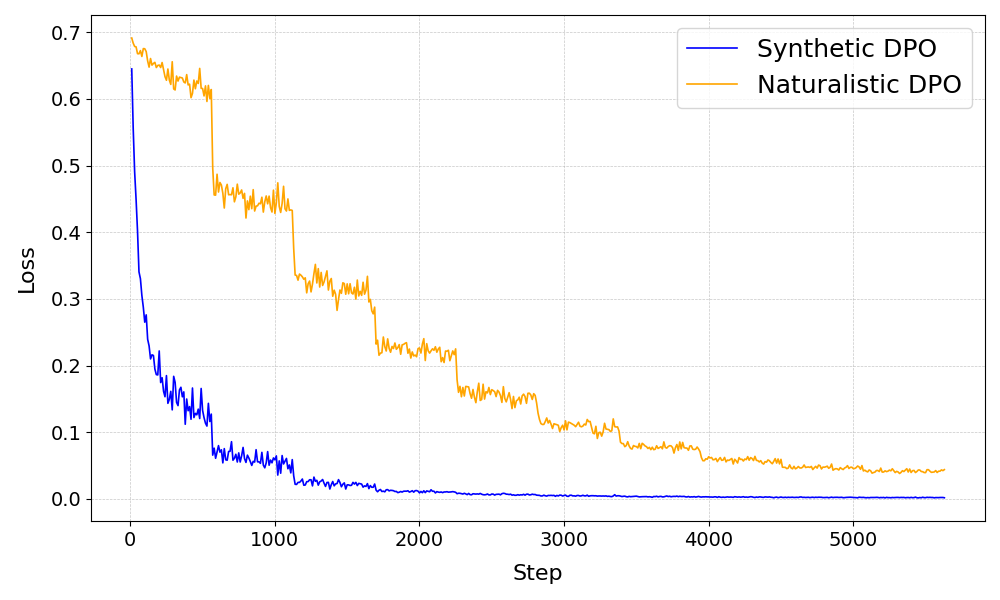
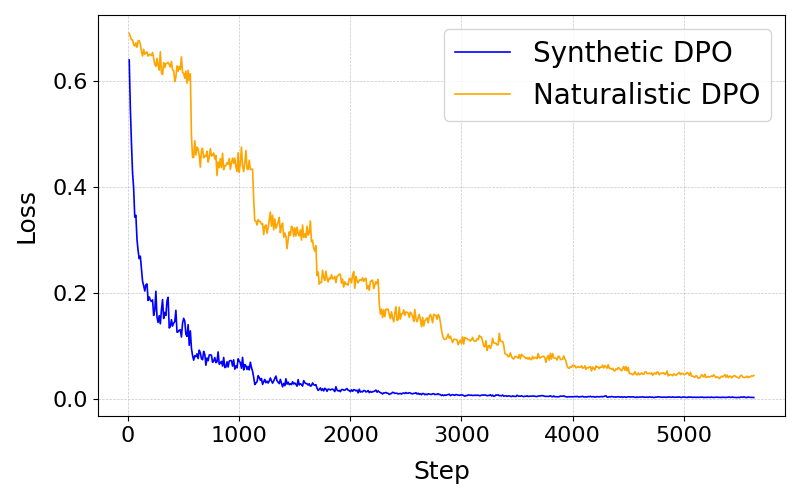
update figures and eval scripts

diff --git a/plot_reward_loss_dpo.py b/plot_reward_loss_dpo.py
@@ -2,41 +2,42 @@ import pandas as pd
 import matplotlib.pyplot as plt
 
 # Load both training logs
-df_synth = pd.read_csv("./dpo_outputs_complete_synthetic/logs/training_metrics.csv")
-df_real = pd.read_csv("./dpo_outputs_complete/logs/training_metrics.csv")
+df_synth = pd.read_csv("./finetuned_models/communicative-baby-dpo-synthetic/logs/training_metrics.csv")
+df_real = pd.read_csv("./finetuned_models/communicative-baby-dpo/logs/training_metrics.csv")
 
 # Set font sizes and line width
-label_fontsize = 16
-tick_fontsize = 14
+label_fontsize = 18
+tick_fontsize = 16
 line_width = 1.2
-legend_fontsize = 18
+legend_fontsize = 20
 
 # Plot 1: Loss over Steps
-plt.figure(figsize=(10, 6))
+plt.figure(figsize=(8, 5))
 plt.plot(df_synth["step"], df_synth["loss"], label="Synthetic DPO", color="blue", linewidth=line_width)
 plt.plot(df_real["step"], df_real["loss"], label="Naturalistic DPO", color="orange", linewidth=line_width)
 plt.xlabel("Step", fontsize=label_fontsize, labelpad=10)
 plt.ylabel("Loss", fontsize=label_fontsize, labelpad=10)
 plt.xticks(fontsize=tick_fontsize)
-plt.yticks(fontsize=tick_fontsize)
+plt.yticks([0.0,0.2, 0.4, 0.6], fontsize=tick_fontsize)
 plt.grid(True, axis='both', linestyle='--', linewidth=0.5, alpha=0.7)
-plt.legend(fontsize = legend_fontsize)
+plt.legend(fontsize=legend_fontsize)
 plt.tight_layout()
 plt.savefig("./plots/loss_trend_dpo_comparison.png")
 plt.close()
 
 # Plot 2: Rewards over Steps
-plt.figure(figsize=(10, 6))
-plt.plot(df_synth["step"], df_synth["rewards/chosen"], label="Synthetic - Rewards/Chosen", color="#90ee90", linewidth=line_width)
-plt.plot(df_synth["step"], df_synth["rewards/rejected"], label="Synthetic - Rewards/Rejected", color="orange", linewidth=line_width)
-plt.plot(df_real["step"], df_real["rewards/chosen"], label="Naturalistic - Rewards/Chosen", color="darkgreen", linewidth=line_width)
-plt.plot(df_real["step"], df_real["rewards/rejected"], label="Naturalistic - Rewards/Rejected", color="darkred", linewidth=line_width)
+plt.figure(figsize=(8, 5))
+plt.plot(df_synth["step"], df_synth["rewards/chosen"], label="Synth. - Chosen", color="#90ee90", linewidth=line_width)
+plt.plot(df_synth["step"], df_synth["rewards/rejected"], label="Synth. - Rejected", color="orange", linewidth=line_width)
+plt.plot(df_real["step"], df_real["rewards/chosen"], label="Nat. - Chosen", color="darkgreen", linewidth=line_width)
+plt.plot(df_real["step"], df_real["rewards/rejected"], label="Nat. - Rejected", color="darkred", linewidth=line_width)
 plt.xlabel("Step", fontsize=label_fontsize, labelpad=10)
 plt.ylabel("Reward", fontsize=label_fontsize, labelpad=10)
 plt.xticks(fontsize=tick_fontsize)
 plt.yticks(fontsize=tick_fontsize)
+plt.yticks([-4, -2, 0, 2, 4], fontsize=tick_fontsize)
 plt.grid(True, axis='both', linestyle='--', linewidth=0.5, alpha=0.7)
-plt.legend(fontsize = 15, loc='lower left')
+plt.legend(fontsize = 14, loc='lower left')
 plt.tight_layout()
 plt.savefig("./plots/rewards_trend_dpo_comparison.png")
 plt.close()

diff --git a/evaluation/evaluate_dialogue_minpairs.py b/evaluation/evaluate_dialogue_minpairs.py
@@ -7,10 +7,11 @@ from tqdm import tqdm
 # CONFIG: Choose your model and dataset
 DIALOGUE_WORDS= "fpadovani/dialogue_eval_words" 
 DIALOGUE_TOKENS = "fpadovani/dialogue_eval_tokens" 
+INTERACTIVE = 'BabyLM-community/babylm-interaction-baseline-simpo'
 GPT_BERT = 'BabyLM-community/babylm-baseline-10m-gpt-bert-causal-focus'
 BASELINE_PATH = "bbunzeck/another-llama"
-FINETUNED_PATH_1 = "/Users/frapadovani/Desktop/communicative_baby_dpo/dpo_outputs_complete_synthetic/checkpoints/checkpoint-5630"  # Local path to first fine-tuned model
-FINETUNED_PATH_2 = "/Users/frapadovani/Desktop/communicative_baby_dpo/dpo_outputs_complete/checkpoints/checkpoint-5630"
+FINETUNED_PATH_1 = "./finetuned_models/communicative-baby-dpo-synthetic/checkpoint-5630"  # Local path to first fine-tuned model
+FINETUNED_PATH_2 = "./finetuned_models/communicative-baby-dpo/checkpoint-5630"
 SPLIT = "train"
 
 # Load dataset from HuggingFace
@@ -31,6 +32,7 @@ data_tokens = dataset_tokens.to_list()
 
 # Load MiniCONS models
 device = 'cuda' if torch.cuda.is_available() else 'cpu'
+interactive = scorer.IncrementalLMScorer(INTERACTIVE, device=device, trust_remote_code=True)
 gpt_bert = scorer.IncrementalLMScorer(GPT_BERT, device=device, trust_remote_code=True)
 baseline_model = scorer.IncrementalLMScorer(BASELINE_PATH, device=device)
 finetuned_model_1 = scorer.IncrementalLMScorer(FINETUNED_PATH_1, device=device)
@@ -58,6 +60,8 @@ def evaluate_model(model, data):
     return correct / total
 
 
+interactive_words = evaluate_model(interactive, data_words)
+print(f"Interactive model accuracy: {interactive_words:.3f}")
 
 gpt_bert_words = evaluate_model(gpt_bert, data_words)
 print(f"Gpt-BErt model accuracy: {gpt_bert_words:.3f}")
@@ -70,6 +74,9 @@ print(f"Fine-tuned model accuracy: {finetuned_1_words:.3f}")
 
 finetuned_2_words = evaluate_model(finetuned_model_2, data_words)
 print(f"Fine-tuned model accuracy: {finetuned_2_words:.3f}")
+
+interactive_tokens = evaluate_model(interactive, data_tokens)
+print(f"Interactive model accuracy: {interactive_tokens:.3f}")
 
 gpt_bert_tokens = evaluate_model(gpt_bert, data_tokens)
 print(f"Gpt-BErt model accuracy: {gpt_bert_tokens:.3f}")

diff --git a/evaluation/evaluate_lexicon.py b/evaluation/evaluate_lexicon.py
@@ -5,10 +5,11 @@ import torch
 from tqdm import tqdm
 
 # === Model paths ===
+INTERACTIVE = 'BabyLM-community/babylm-interaction-baseline-simpo'
 GPT_BERT = 'BabyLM-community/babylm-baseline-10m-gpt-bert-causal-focus'
 BASELINE_PATH = "bbunzeck/another-llama"
-FINETUNED_PATH_1 = "/Users/frapadovani/Desktop/communicative_baby_dpo/dpo_outputs_complete_synthetic/checkpoints/checkpoint-5630"
-FINETUNED_PATH_2 = "/Users/frapadovani/Desktop/communicative_baby_dpo/dpo_outputs_complete/checkpoints/checkpoint-5630"
+FINETUNED_PATH_1 = "./finetuned_models/dpo_outputs_complete_synthetic/checkpoints/checkpoint-5630"
+FINETUNED_PATH_2 = "./finetuned_models/dpo_outputs_complete/checkpoints/checkpoint-5630"
 
 # === Load the dataset ===
 print("Loading lexical-decision dataset from HuggingFace...")
@@ -21,7 +22,8 @@ data = dataset.to_list()
 # === Load MiniCONS models ===
 device = 'cuda' if torch.cuda.is_available() else 'cpu'
 
-gpt_bert = scorer.IncrementalLMScorer(GPT_BERT, device='cpu', trust_remote_code=True)
+interactive = scorer.IncrementalLMScorer(INTERACTIVE, device=device, trust_remote_code=True)
+gpt_bert = scorer.IncrementalLMScorer(GPT_BERT, device=device, trust_remote_code=True)
 baseline_model = scorer.IncrementalLMScorer(BASELINE_PATH, device=device)
 finetuned_model_1 = scorer.IncrementalLMScorer(FINETUNED_PATH_1, device=device)
 finetuned_model_2 = scorer.IncrementalLMScorer(FINETUNED_PATH_2, device=device)
@@ -53,6 +55,9 @@ def evaluate_lexical_decision_model(model, data):
 
 # === Run evaluations ===
 print("\ns Evaluating models on lexical decision task...\n")
+
+acc_interactive = evaluate_lexical_decision_model(interactive, data)
+print(f"Interactive model accuracy: {acc_interactive:.3f}")
 
 acc_gptbert = evaluate_lexical_decision_model(gpt_bert, data)
 print(f" Baseline model accuracy: {acc_gptbert:.3f}")

diff --git a/evaluation/evaluate_zorro.py b/evaluation/evaluate_zorro.py
@@ -48,16 +48,25 @@ def evaluate_zorro(lm, test_suite_folder, lower_case=False):
 
     return paradigm_accuracies, overall_accuracy
 
+INTERACTIVE = 'BabyLM-community/babylm-interaction-baseline-simpo'
 GPT_BERT = 'BabyLM-community/babylm-baseline-10m-gpt-bert-causal-focus'
 BASELINE_PATH = "bbunzeck/another-llama"
-FINETUNED_PATH_1 = "/Users/frapadovani/Desktop/communicative_baby_dpo/dpo_outputs_complete_synthetic/checkpoints/checkpoint-5630"
-FINETUNED_PATH_2 = "/Users/frapadovani/Desktop/communicative_baby_dpo/dpo_outputs_complete/checkpoints/checkpoint-5630"
-zorro_folder = '/Users/frapadovani/Desktop/communicative_baby_dpo/evaluation/test_suites/zorro'
+FINETUNED_PATH_1 = "./finetuned_models/dpo_outputs_complete_synthetic/checkpoints/checkpoint-5630"
+FINETUNED_PATH_2 = "./finetuned_models/dpo_outputs_complete/checkpoints/checkpoint-5630"
+zorro_folder = './evaluation/test_suites/zorro'
 
+interactive = scorer.IncrementalLMScorer(INTERACTIVE, device='cpu', trust_remote_code=True)
 gpt_bert = scorer.IncrementalLMScorer(GPT_BERT, device='cpu', trust_remote_code=True)
 baseline_model = scorer.IncrementalLMScorer(BASELINE_PATH, device='cpu')
 finetuned_1 = scorer.IncrementalLMScorer(FINETUNED_PATH_1, device='cpu')
 finetuned_2 = scorer.IncrementalLMScorer(FINETUNED_PATH_2, device='cpu')
+
+paradigm_acc_inter, overall_acc_inter = evaluate_zorro(
+    lm=gpt_bert,
+    test_suite_folder=zorro_folder,
+    lower_case=True
+)
+print(paradigm_acc_inter, overall_acc_inter)
 
 paradigm_acc_gptb, overall_acc_gptb = evaluate_zorro(
     lm=gpt_bert,
